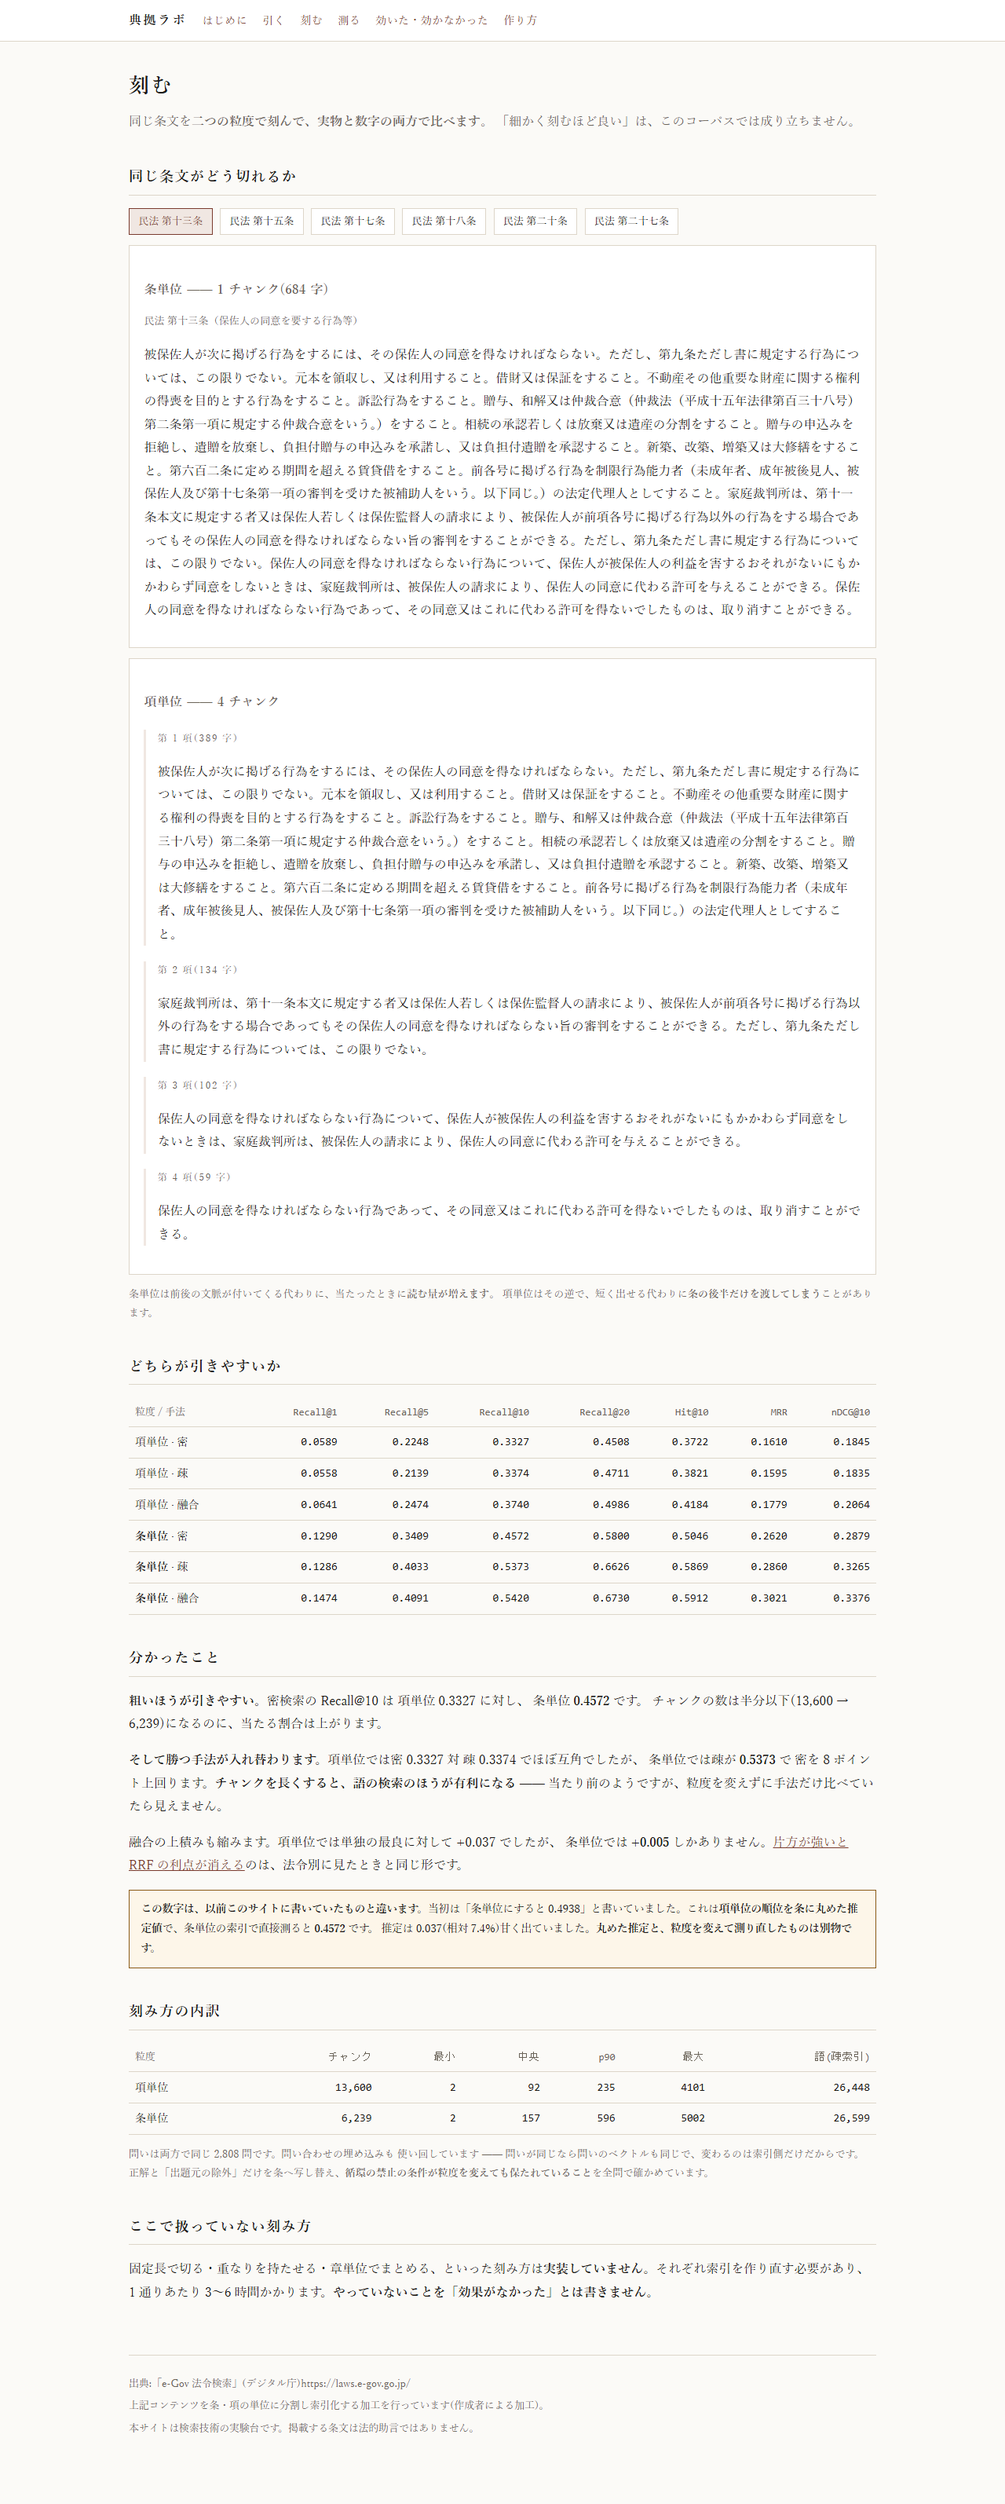
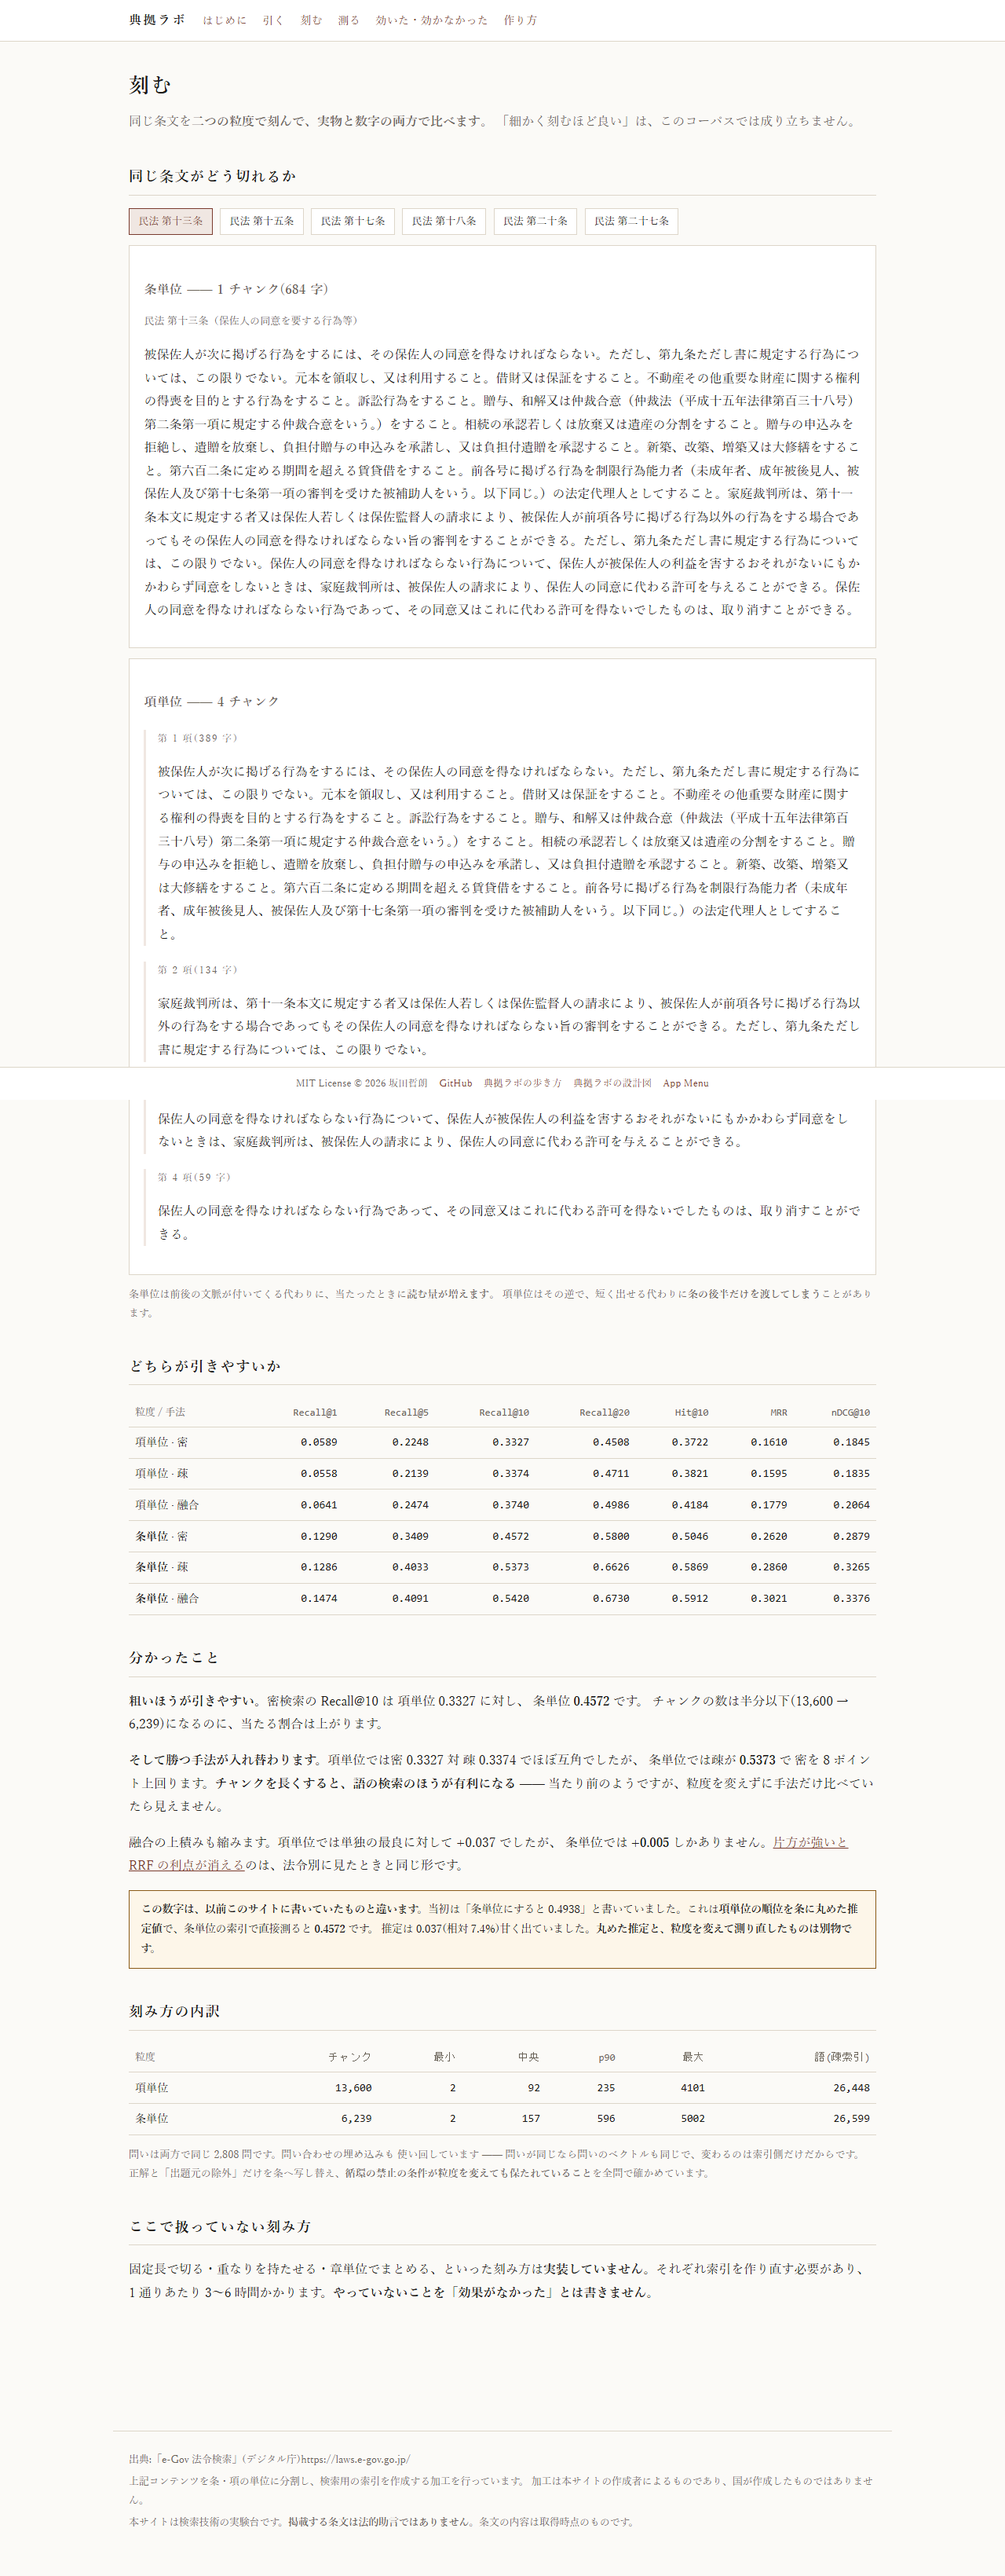
feat: フリート共通フッタ(5 項目・下部固定)と解説アーティファクト 2 本
歩き方  https://claude.ai/code/artifact/f7cc1a9c-1236-4425-b9f6-b99087f6a7fc
設計図  https://claude.ai/code/artifact/7295b03e-9c89-4faf-9780-011515639650

フッタは koho-lens 準拠の 5 項目・position:fixed。ラベルは和名+固有動詞を
温存して「典拠ラボの歩き方」「典拠ラボの設計図」。

6 ページで重複していた出典表示を layout に集約した(PDL1.0 の出典・加工の
明示義務があるので、固定フッタとは別に残す)。

実ブラウザ検品にフッタの検査を足した(5 項目・fixed・空でない・リンク 4 本)。

diff --git a/app/layout.tsx b/app/layout.tsx
@@ -23,6 +23,25 @@ export default function RootLayout({ children }: { children: React.ReactNode }) 
           </div>
         </nav>
         <main>{children}</main>
+        <div className="attrib">
+          <p>出典:「e-Gov 法令検索」(デジタル庁)https://laws.e-gov.go.jp/</p>
+          <p>
+            上記コンテンツを条・項の単位に分割し、検索用の索引を作成する加工を行っています。
+            加工は本サイトの作成者によるものであり、国が作成したものではありません。
+          </p>
+          <p>
+            本サイトは検索技術の実験台です。<strong>掲載する条文は法的助言ではありません。</strong>
+            条文の内容は取得時点のものです。
+          </p>
+        </div>
+        {/* fleet: fixed footer */}
+        <footer className="fleet">
+          <span>MIT License © 2026 坂田哲朗</span>
+          <a href="https://github.com/twill3c/tenkyo-lab" target="_blank" rel="noopener">GitHub</a>
+          <a href="https://claude.ai/code/artifact/f7cc1a9c-1236-4425-b9f6-b99087f6a7fc" target="_blank" rel="noopener">典拠ラボの歩き方</a>
+          <a href="https://claude.ai/code/artifact/7295b03e-9c89-4faf-9780-011515639650" target="_blank" rel="noopener">典拠ラボの設計図</a>
+          <a href="https://app-menu-amber.vercel.app/" target="_blank" rel="noopener">App Menu</a>
+        </footer>
       </body>
     </html>
   );

diff --git a/app/globals.css b/app/globals.css
@@ -29,8 +29,20 @@ nav.top { border-bottom: 1px solid var(--line); background: #fff; }
 nav.top div { max-width: 62rem; margin: 0 auto; padding: 0.7rem 1.25rem; display: flex; gap: 1.2rem; align-items: baseline; }
 nav.top strong { letter-spacing: 0.16em; }
 nav.top a { text-decoration: none; font-size: 0.9rem; }
-footer { border-top: 1px solid var(--line); margin-top: 4rem; padding-top: 1.2rem; font-size: 0.8rem; color: var(--muted); }
-footer p { margin: 0.3rem 0; }
+.attrib { max-width: 62rem; margin: 4rem auto 0; padding: 1.2rem 1.25rem 0; border-top: 1px solid var(--line); font-size: 0.8rem; color: var(--muted); }
+.attrib p { margin: 0.3rem 0; }
+
+/* fleet: fixed footer */
+body { padding-bottom: 3.2rem; }
+footer.fleet {
+  position: fixed; bottom: 0; left: 0; right: 0; z-index: 10;
+  background: #fff; border-top: 1px solid var(--line);
+  padding: 0.55rem 1.25rem;
+  display: flex; flex-wrap: wrap; gap: 0.3rem 0.9rem; justify-content: center;
+  font-size: 0.78rem; color: var(--muted);
+}
+footer.fleet a { color: var(--accent); text-decoration: none; }
+footer.fleet a:hover, footer.fleet a:focus-visible { text-decoration: underline; }
 .card { border: 1px solid var(--line); background: #fff; padding: 1rem 1.15rem; margin: 0.8rem 0; }
 .stage { border-left: 3px solid var(--accent-soft); padding-left: 0.9rem; margin: 1.2rem 0; }
 .stage > .label { font-size: 0.78rem; letter-spacing: 0.12em; color: var(--muted); }

diff --git a/app/page.tsx b/app/page.tsx
@@ -90,17 +90,6 @@ export default function Home() {
         実際に取得した量は画面に出ます。すべて閲覧者の端末で動き、外部の API は使いません。
       </div>
 
-      <footer>
-        <p>出典:「e-Gov 法令検索」(デジタル庁)https://laws.e-gov.go.jp/</p>
-        <p>
-          上記コンテンツを条・項の単位に分割し、検索用の索引を作成する加工を行っています。
-          加工は本サイトの作成者によるものであり、国が作成したものではありません。
-        </p>
-        <p>
-          本サイトは検索技術の実験台です。<strong>掲載する条文は法的助言ではありません。</strong>
-          条文の内容は取得時点のものです。
-        </p>
-      </footer>
     </>
   );
 }

diff --git a/app/tsukurikata/page.tsx b/app/tsukurikata/page.tsx
@@ -208,11 +208,6 @@ export default function Tsukurikata() {
         実ブラウザで 0 件を確認しています。
       </p>
 
-      <footer>
-        <p>出典:「e-Gov 法令検索」(デジタル庁)https://laws.e-gov.go.jp/</p>
-        <p>上記コンテンツを条・項の単位に分割し索引化する加工を行っています(作成者による加工)。</p>
-        <p>本サイトは検索技術の実験台です。掲載する条文は法的助言ではありません。</p>
-      </footer>
     </>
   );
 }

diff --git a/app/kiita/page.tsx b/app/kiita/page.tsx
@@ -298,11 +298,6 @@ export default function Kiita() {
         </table>
       </div>
 
-      <footer>
-        <p>出典:「e-Gov 法令検索」(デジタル庁)https://laws.e-gov.go.jp/</p>
-        <p>上記コンテンツを条・項の単位に分割し索引化する加工を行っています(作成者による加工)。</p>
-        <p>本サイトは検索技術の実験台です。掲載する条文は法的助言ではありません。</p>
-      </footer>
     </>
   );
 }

diff --git a/app/hiku/page.tsx b/app/hiku/page.tsx
@@ -264,11 +264,6 @@ export default function Hiku() {
         </div>
       )}
 
-      <footer>
-        <p>出典:「e-Gov 法令検索」(デジタル庁)https://laws.e-gov.go.jp/</p>
-        <p>上記コンテンツを条・項の単位に分割し索引化する加工を行っています(作成者による加工)。</p>
-        <p>本サイトは検索技術の実験台です。掲載する条文は法的助言ではありません。</p>
-      </footer>
     </>
   );
 }

diff --git a/app/hakaru/page.tsx b/app/hakaru/page.tsx
@@ -280,11 +280,6 @@ export default function Hakaru() {
         </>
       )}
 
-      <footer>
-        <p>出典:「e-Gov 法令検索」(デジタル庁)https://laws.e-gov.go.jp/</p>
-        <p>上記コンテンツを条・項の単位に分割し索引化する加工を行っています(作成者による加工)。</p>
-        <p>本サイトは検索技術の実験台です。掲載する条文は法的助言ではありません。</p>
-      </footer>
     </>
   );
 }

diff --git a/app/kizamu/page.tsx b/app/kizamu/page.tsx
@@ -204,11 +204,6 @@ export default function Kizamu() {
         </>
       )}
 
-      <footer>
-        <p>出典:「e-Gov 法令検索」(デジタル庁)https://laws.e-gov.go.jp/</p>
-        <p>上記コンテンツを条・項の単位に分割し索引化する加工を行っています(作成者による加工)。</p>
-        <p>本サイトは検索技術の実験台です。掲載する条文は法的助言ではありません。</p>
-      </footer>
     </>
   );
 }
